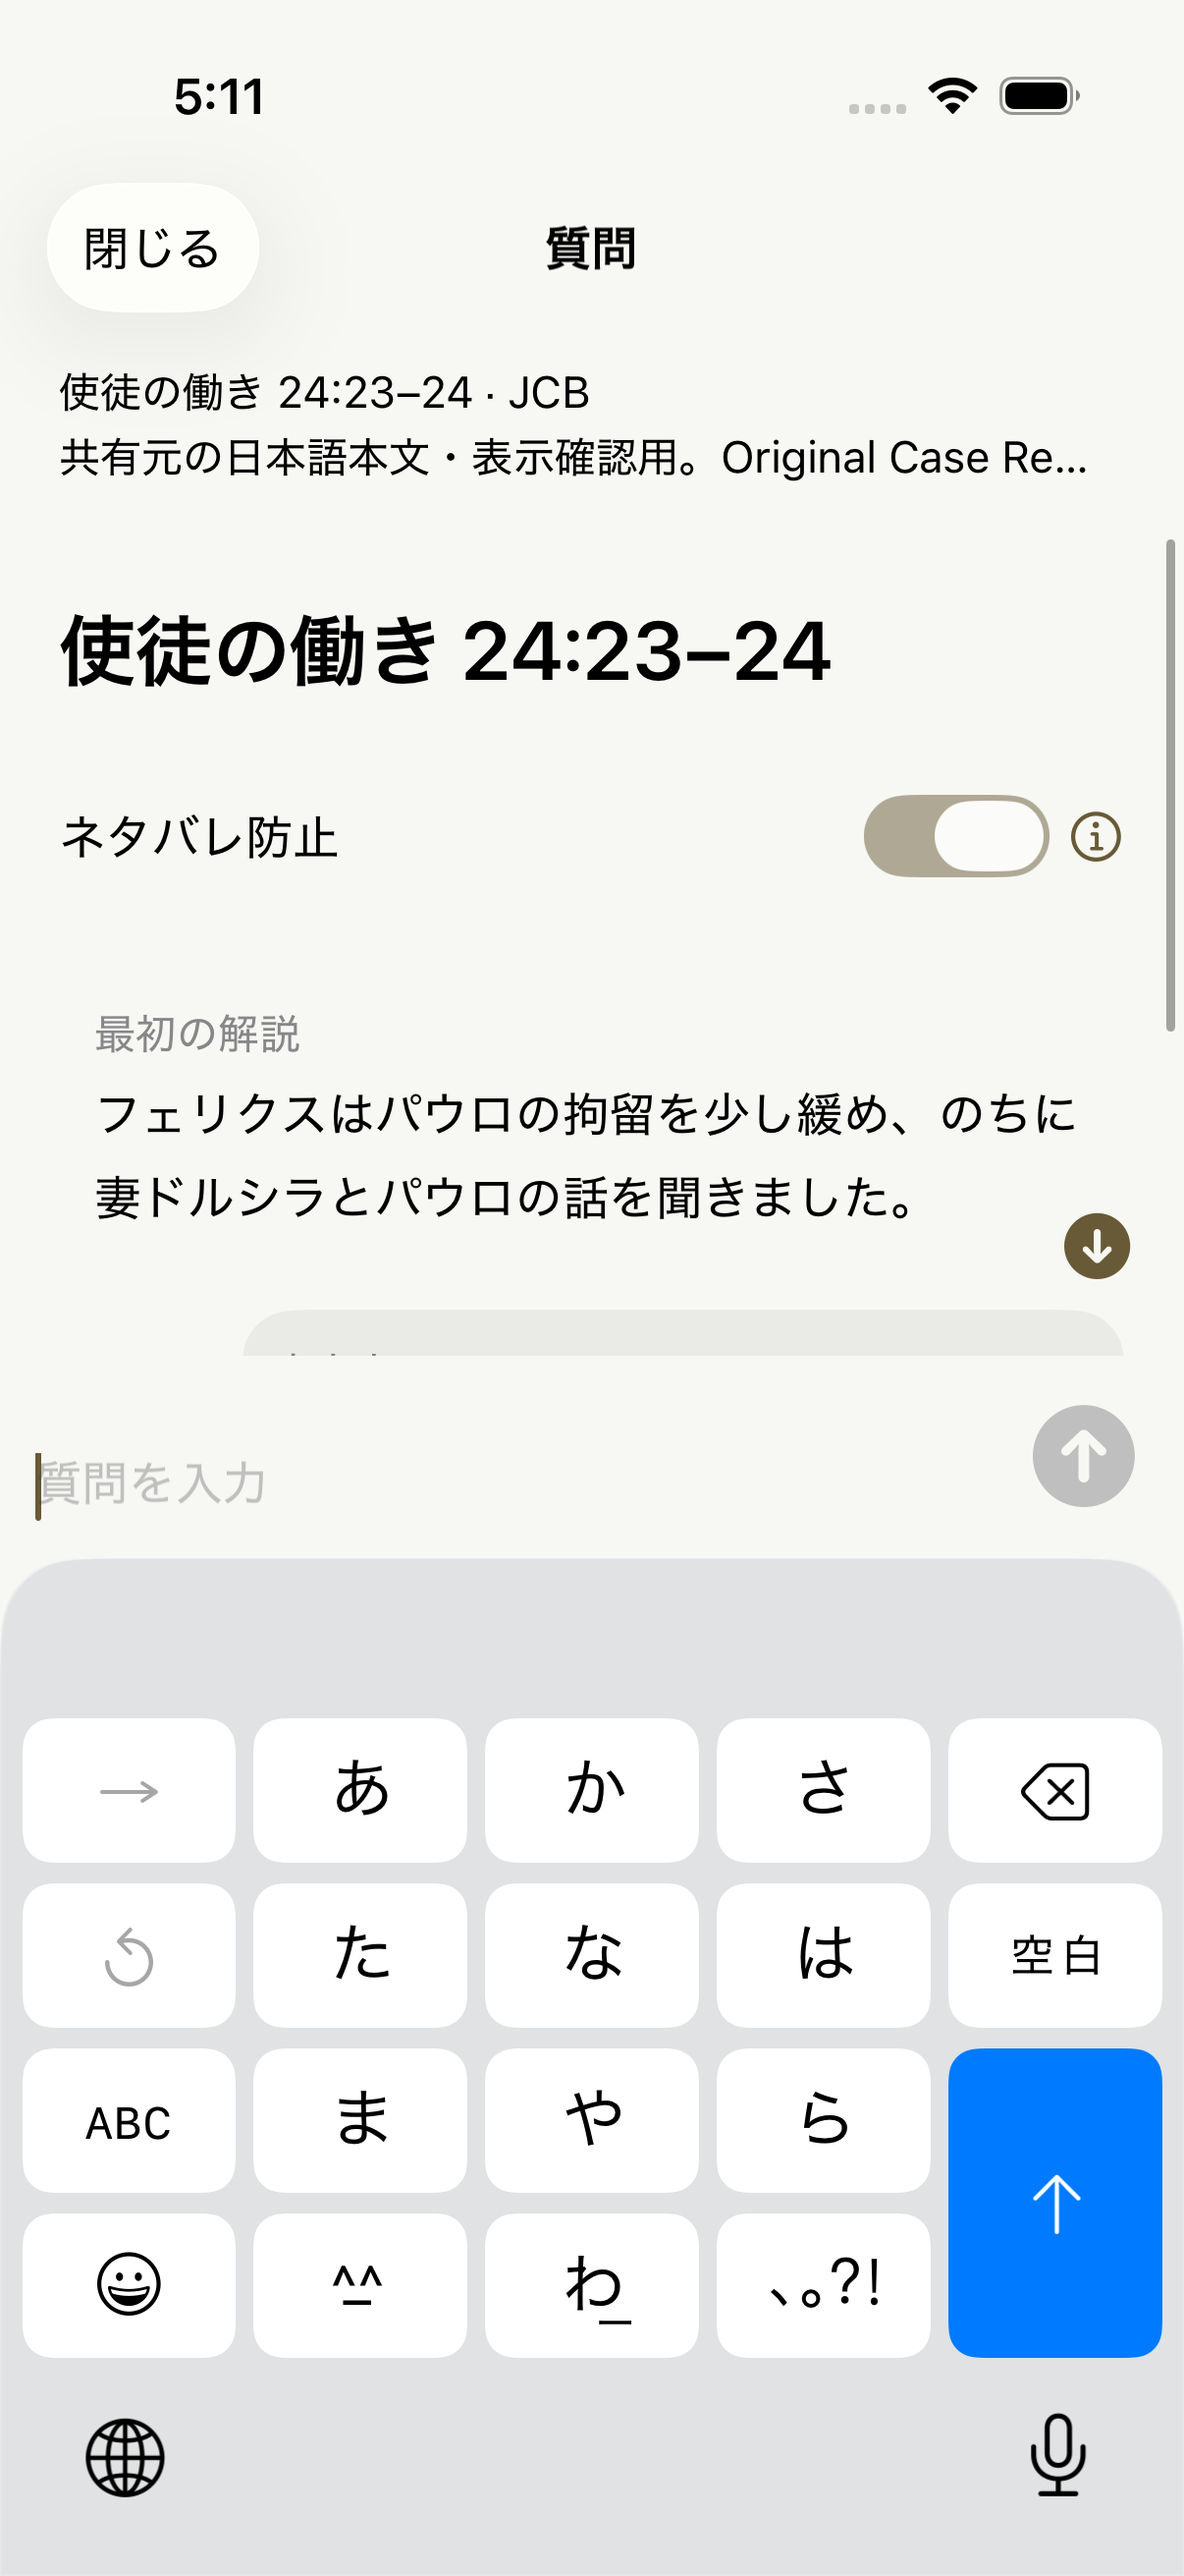
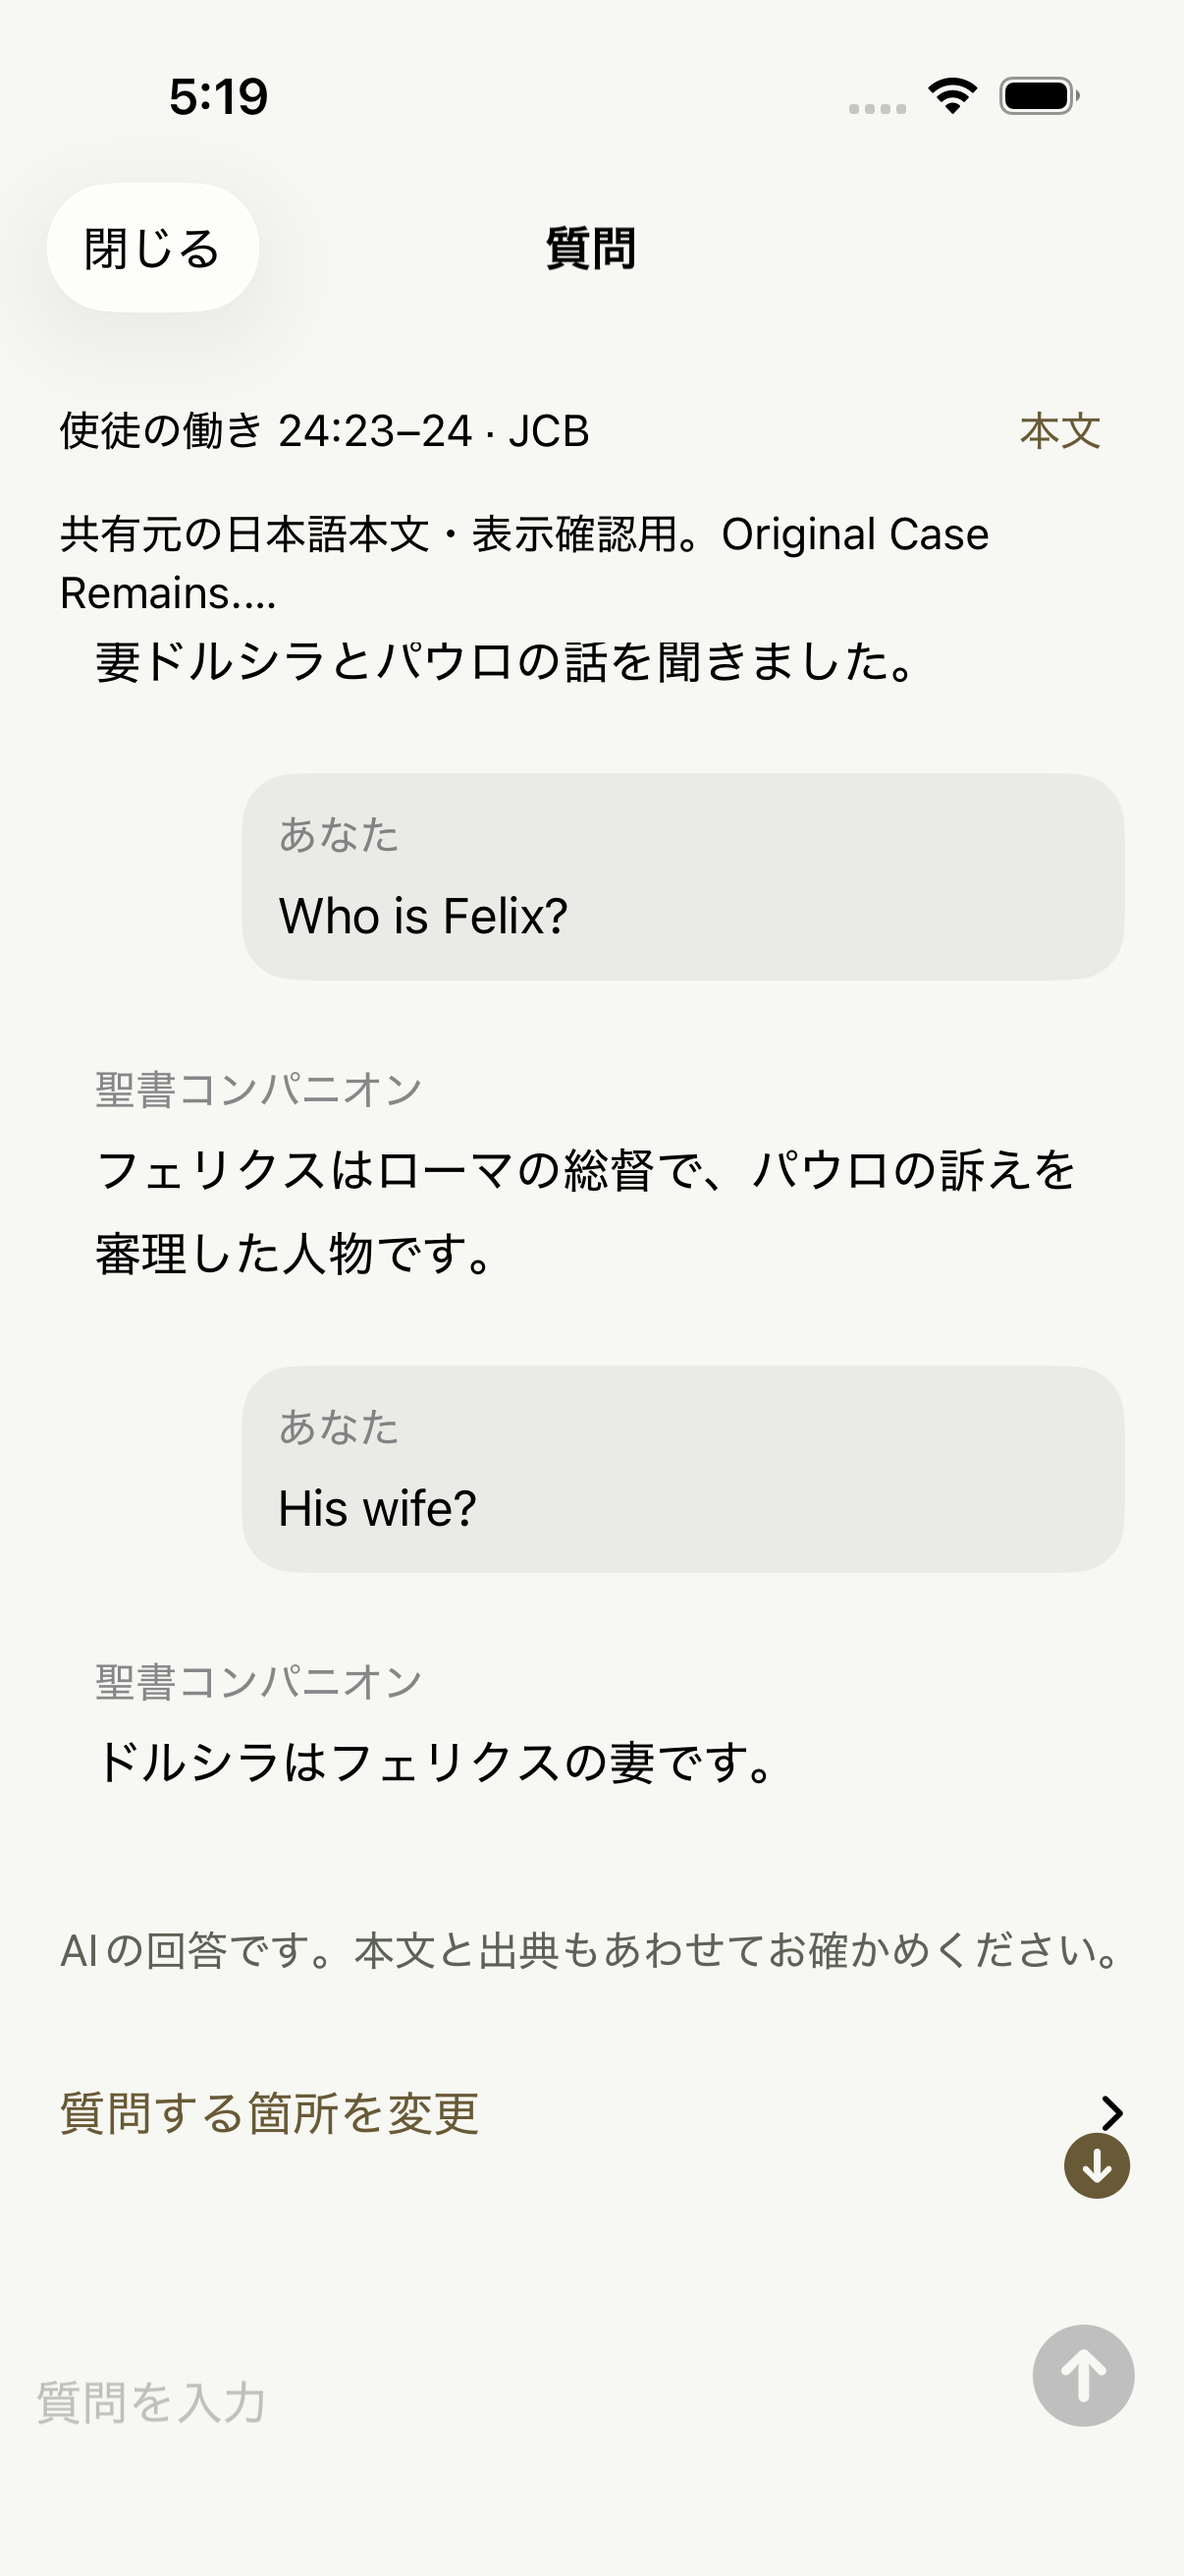
Refresh final conversation UI evidence on isolated simulator

diff --git a/docs/conversation-streaming.md b/docs/conversation-streaming.md
@@ -44,6 +44,6 @@ No live AI request, production deployment, distribution update, new credentials,
 - Swift package: 187 tests passed, including byte-fragmented SSE, EOF-before-completion rejection, real URLSession preview-before-EOF, request-ID mismatch, cancellation, late results after account switch, transcript ordering and deduplication.
 - App-state harness: 21 existing control-flow checks passed.
 - Design contract and five design tests passed.
-- Native simulator UI evidence: initial explanation retained, two conversational turns, keyboard-visible send, actual SSE preview, interrupted response recovery, shared-screen cancel/retry. Screenshots use deterministic fixtures, not generated live answers.
+- Native simulator UI evidence: initial explanation retained, two conversational turns, keyboard-visible send, explicit keyboard dismissal, latest-message navigation, actual SSE preview, interrupted response recovery, shared-screen cancel/retry. Screenshots use deterministic fixtures, not generated live answers.
 
 The screenshots under `verification/conversation/` are actual simulator captures of these fixture-driven views. They contain no real account, credential, or private user conversation.
